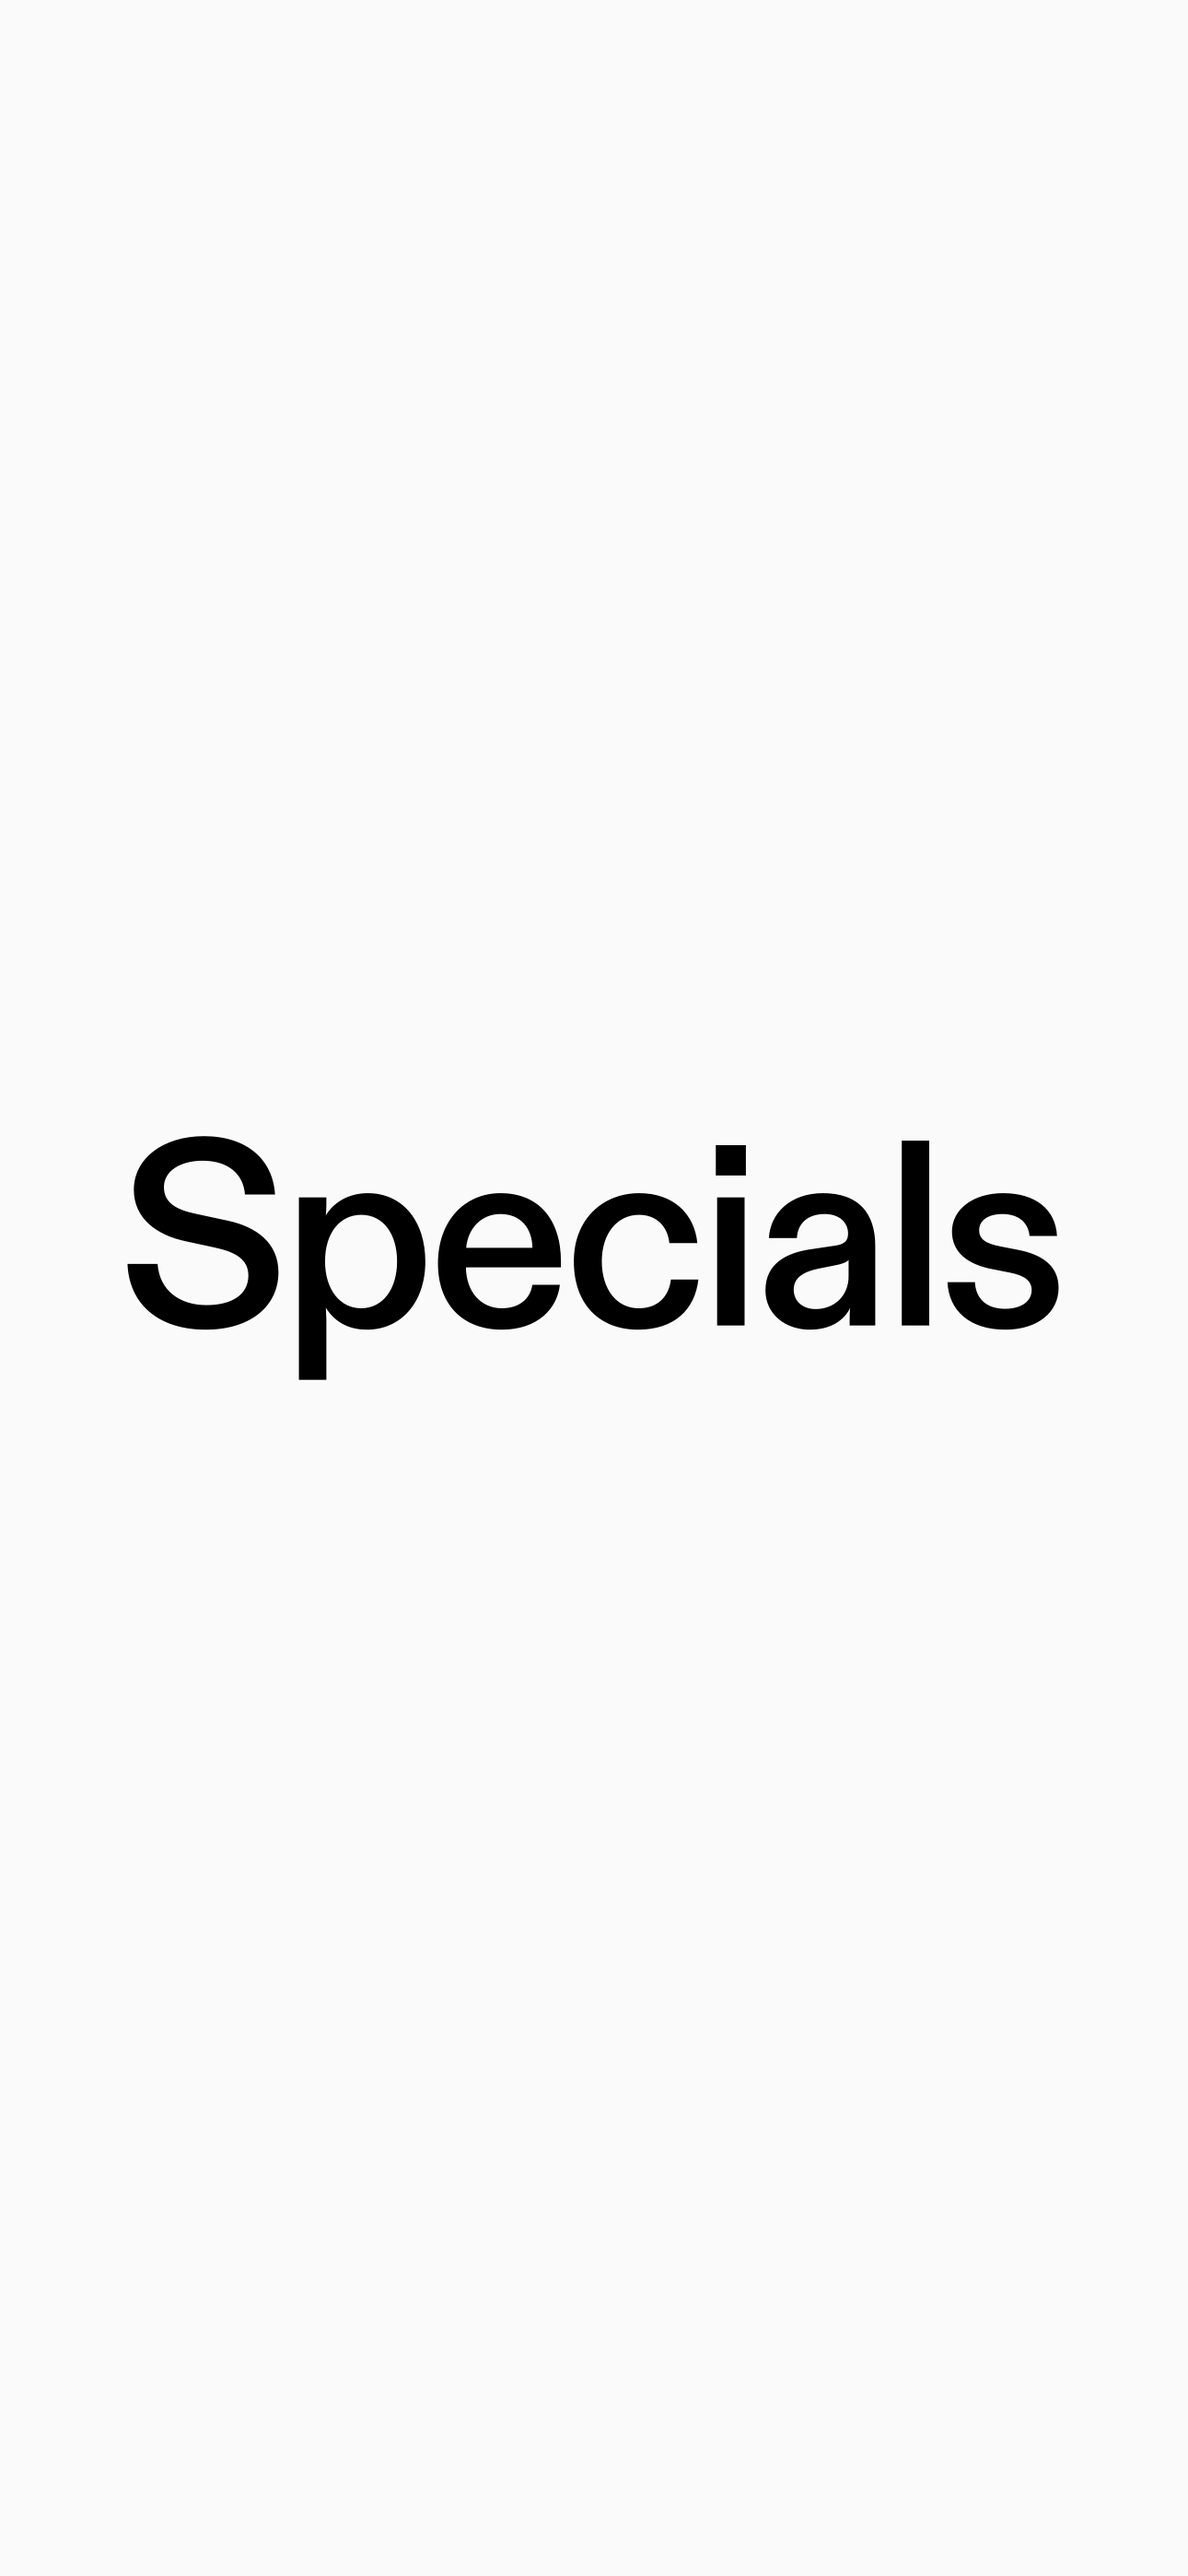
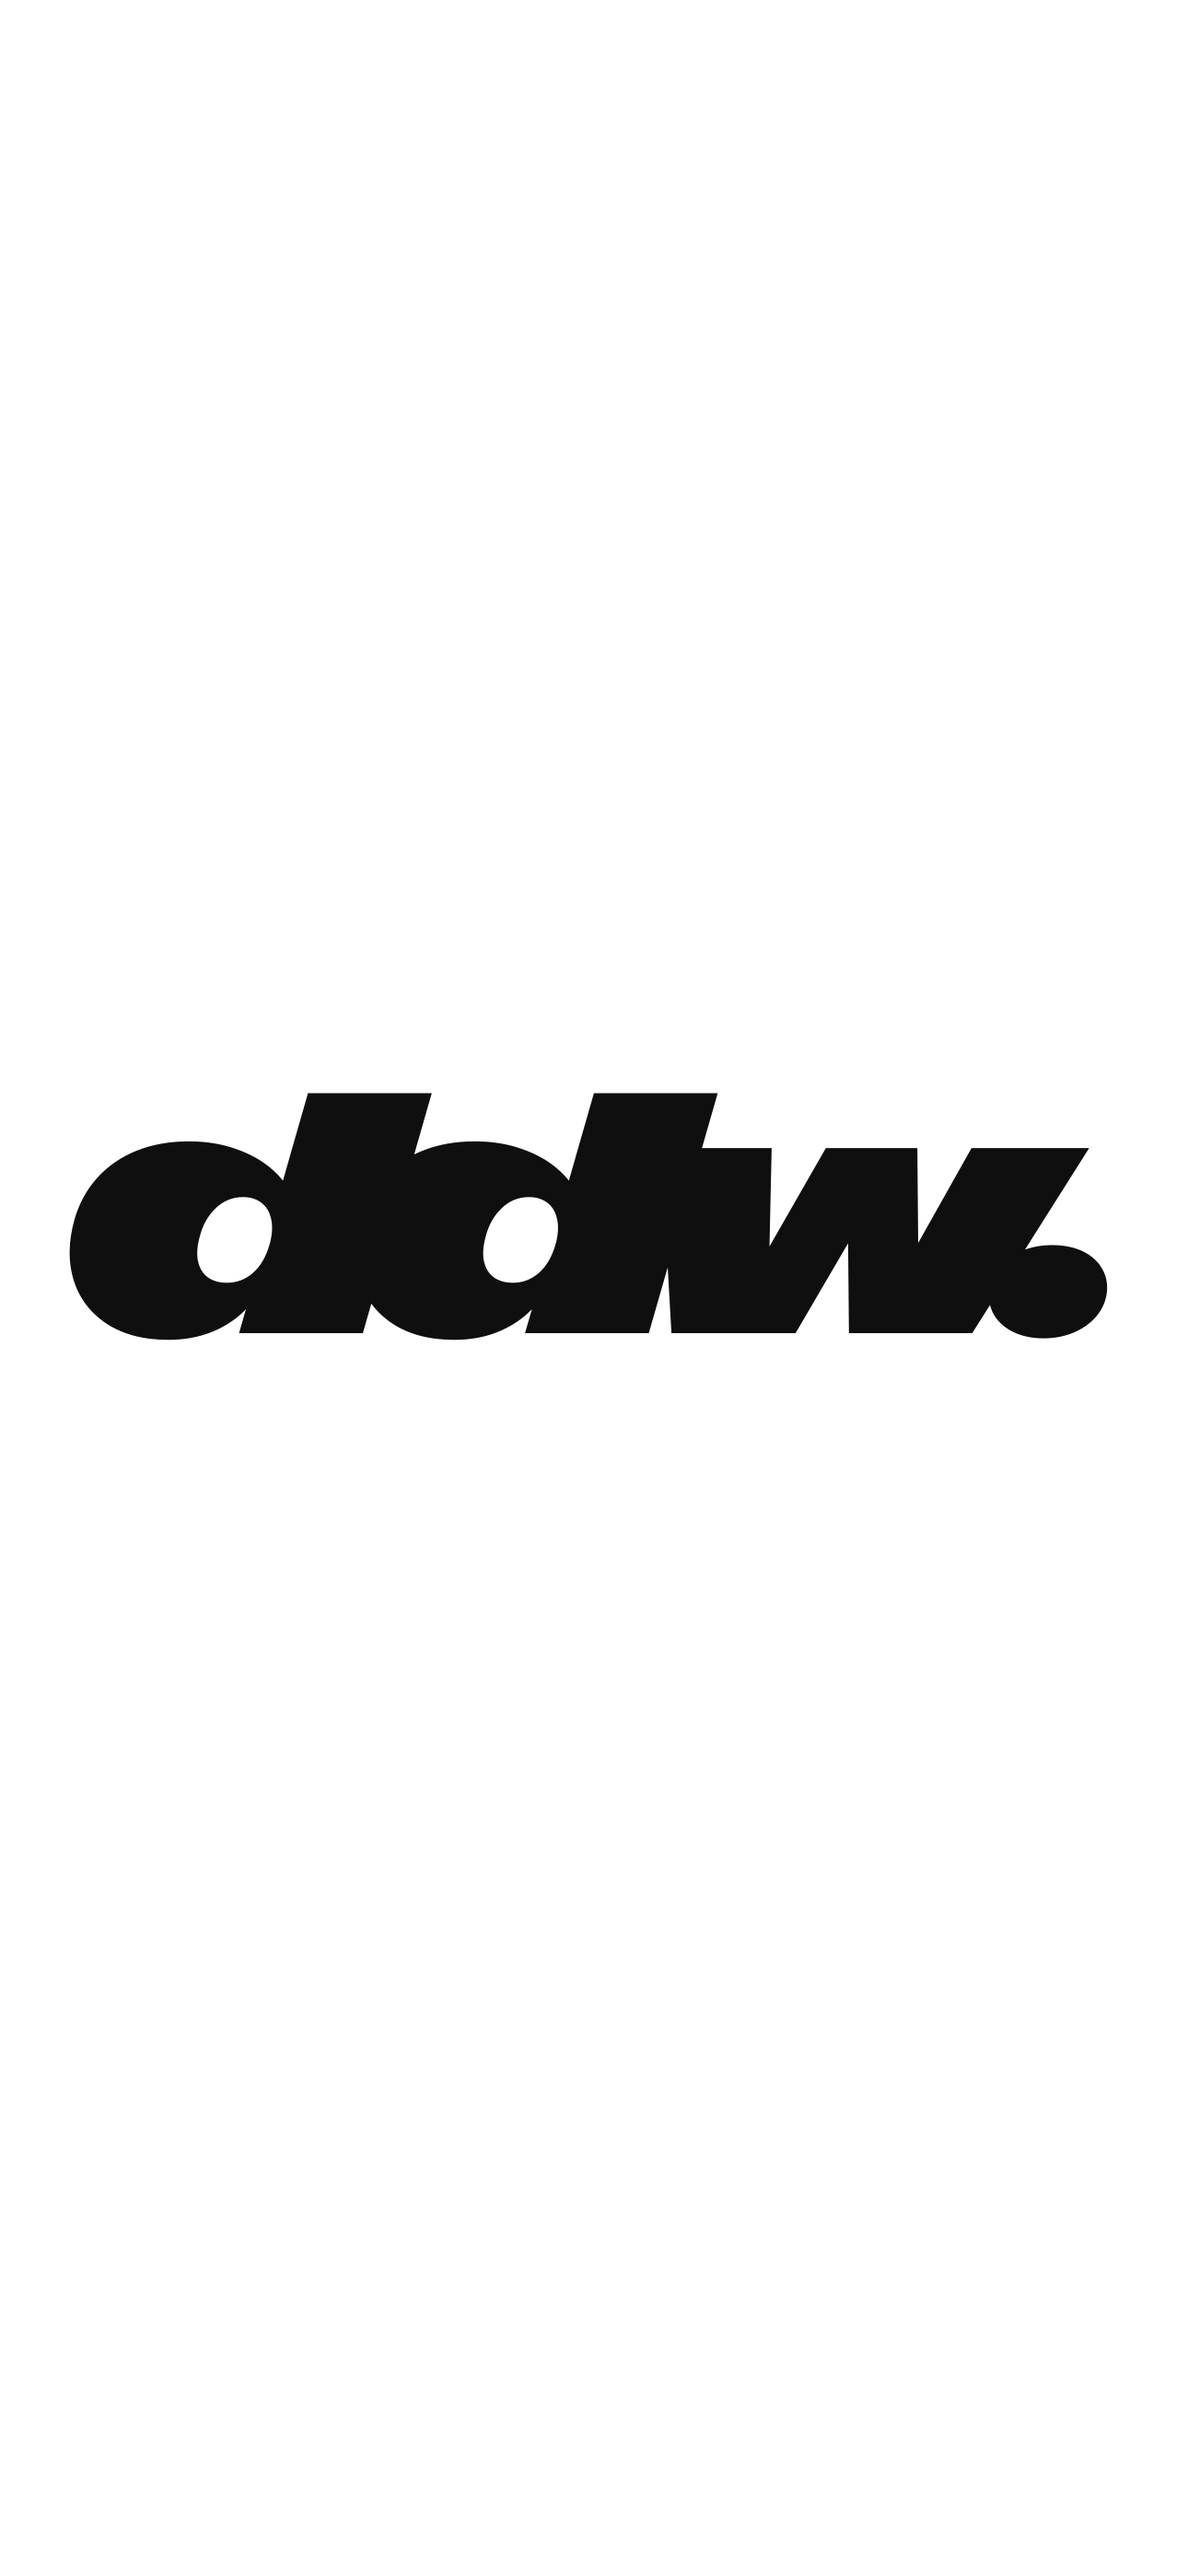
new splash

Changed region(s): [[0.062, 0.4045, 0.9302, 0.5601]]

diff --git a/apps/web/app/app.vue b/apps/web/app/app.vue
@@ -1,7 +1,6 @@
 <script setup lang="ts">
 const splashVisible = ref(true)
 const splashLeaving = ref(false)
-const splashLetters = [...'Specials']
 let splashTimer: ReturnType<typeof setTimeout> | undefined
 let splashRemoveTimer: ReturnType<typeof setTimeout> | undefined
 
@@ -22,8 +21,8 @@ onBeforeUnmount(() => {
 <template>
   <NuxtRouteAnnouncer />
   <PullToRefresh />
-  <div v-if="splashVisible" class="app-splash" :class="{ 'app-splash--leaving': splashLeaving }" role="status" aria-label="Specials">
-    <span class="app-splash-word" aria-hidden="true"><span v-for="(letter, index) in splashLetters" :key="index" class="app-splash-letter" :style="{ '--letter-stagger': `${120 + index * 35}ms` }">{{ letter }}</span></span>
+  <div v-if="splashVisible" class="app-splash" :class="{ 'app-splash--leaving': splashLeaving }" role="status" aria-label="designdep.work">
+    <img class="app-splash-art" src="/pwa-launch%203.svg" alt="" aria-hidden="true">
   </div>
   <NuxtPage />
 </template>
@@ -41,22 +40,11 @@ onBeforeUnmount(() => {
   transition: opacity 220ms ease-out
 }
 
-.app-splash-word {
-  display: flex;
-  transform: translateY(-2dvh);
-  font-family: var(--font-family-ui);
-  font-size: clamp(4rem, 22vw, 8rem);
-  font-weight: 500;
-  letter-spacing: -.055em;
-  line-height: 1;
-  white-space: nowrap
-}
-
-.app-splash-letter {
-  display: inline-block;
-  opacity: 0;
-  transform: translateY(16px);
-  animation: splash-letter-in 220ms cubic-bezier(.2, 0, 0, 1) var(--letter-stagger) forwards
+.app-splash-art {
+  width: 100%;
+  height: 100%;
+  display: block;
+  object-fit: cover
 }
 
 .app-splash--leaving {
@@ -69,22 +57,9 @@ onBeforeUnmount(() => {
   }
 }
 
-@keyframes splash-letter-in {
-  to {
-    opacity: 1;
-    transform: translateY(0)
-  }
-}
-
 @media (prefers-reduced-motion: reduce) {
   .app-splash {
     transition: none
-  }
-
-  .app-splash-letter {
-    opacity: 1;
-    transform: none;
-    animation: none
   }
 }
 </style>

diff --git a/apps/web/nuxt.config.ts b/apps/web/nuxt.config.ts
@@ -19,9 +19,10 @@ export default defineNuxtConfig({
       ],
       link: [
         { rel: 'manifest', href: '/manifest.webmanifest' },
+        { rel: 'apple-touch-icon', sizes: '180x180', href: '/apple-touch-icon.png?v=3' },
         { rel: 'preload', href: '/fonts/ABCDiatypeCyrillicTrial-Medium.otf', as: 'font', type: 'font/otf', crossorigin: 'anonymous' },
         { rel: 'preload', href: '/fonts/ABCDiatypeCyrillicTrial-Bold.otf', as: 'font', type: 'font/otf', crossorigin: 'anonymous' },
-        { rel: 'apple-touch-startup-image', href: '/pwa-launch.png' }
+        { rel: 'apple-touch-startup-image', href: '/pwa-launch.png?v=3' }
       ]
     }
   },
